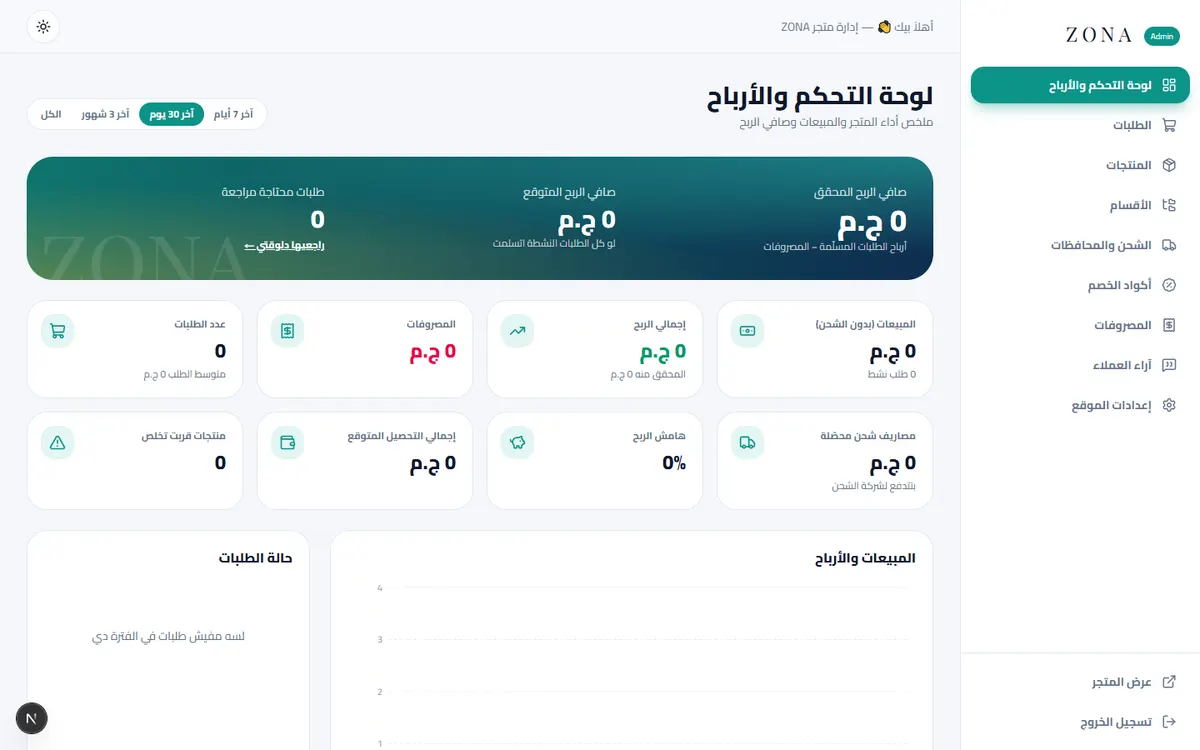
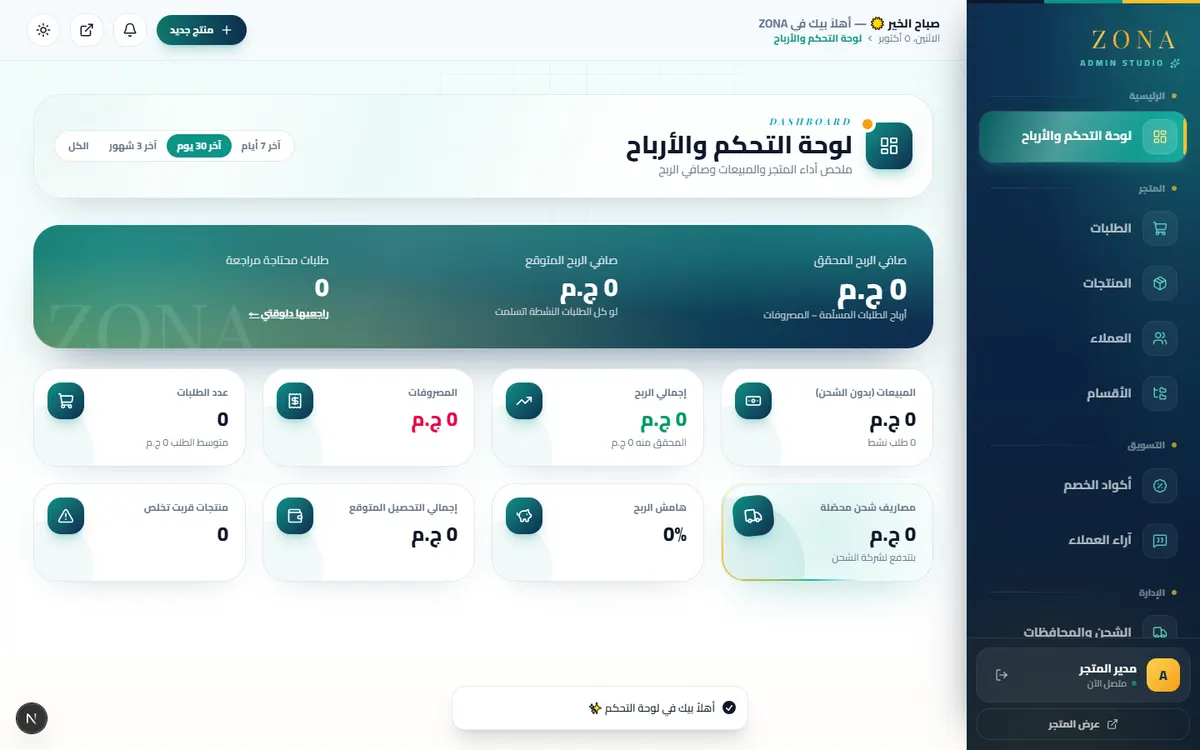
README: document everything + fresh screenshots and demo
- Covers customer accounts, Admin Studio redesign, customers page,
  gallery/table CRUD, social media, new footer and unified login
- New screenshots for store, footer, admin and dark mode; rebuilt
  animated demo

diff --git a/README.md b/README.md
@@ -4,7 +4,7 @@
 
 <p align="center">
   <a href="#">
-    <img src="https://readme-typing-svg.demolab.com?font=Cairo&weight=700&size=24&duration=2800&pause=700&color=0D9488&center=true&vCenter=true&width=680&lines=Satin+%E2%80%A2+Lace+%E2%80%A2+Bridal+%E2%80%A2+Comfort;Next.js+16+%2B+React+19+%2B+Tailwind+v4;Full+Admin+CRUD+%2B+Profit+Dashboard;Shipping+fees+for+27+Egyptian+governorates;Light+%2F+Dark+themes+with+smooth+animations" alt="Typing SVG" />
+    <img src="https://readme-typing-svg.demolab.com?font=Cairo&weight=700&size=24&duration=2800&pause=700&color=0D9488&center=true&vCenter=true&width=720&lines=Satin+%E2%80%A2+Lace+%E2%80%A2+Bridal+%E2%80%A2+Comfort;Next.js+16+%2B+React+19+%2B+Tailwind+v4;Customer+accounts+%2B+Admin+Studio;Full+CRUD+%2B+Profit+Dashboard;Shipping+fees+for+27+Egyptian+governorates;Light+%2F+Dark+themes+%2B+animations+everywhere" alt="Typing SVG" />
   </a>
 </p>
 
@@ -24,7 +24,7 @@
 
 ## ✨ عن المشروع
 
-**ZONA** متجر أونلاين فاخر للانجري والبيجامات الحريمي، مبني بـ **Next.js 16**، بواجهة عربية كاملة (RTL)، بألوان منصة منارة (تيل `#0d9488` • نيفي `#0e2c4e` • دهبي `#f59e0b`)، ووضع **لايت / دارك**، وأنيميشن في كل سكشن، ولوحة تحكم كاملة للأدمن فيها **CRUD على كل حاجة + حساب الأرباح**.
+**ZONA** متجر أونلاين فاخر للانجري والبيجامات الحريمي، مبني بـ **Next.js 16**، بواجهة عربية كاملة (RTL)، بألوان منصة منارة (تيل `#0d9488` • نيفي `#0e2c4e` • دهبي `#f59e0b`)، ووضع **لايت / دارك**، وأنيميشن وشيمر في كل سكشن وانت نازل، وحسابات للعملاء، و**Admin Studio** كامل فيه **CRUD على كل حاجة + حساب الأرباح**.
 
 <p align="center">
   <img src="https://capsule-render.vercel.app/api?type=rect&height=3&color=0:0f172a,50:0d9488,100:fbbf24" width="100%" />
@@ -35,27 +35,30 @@
 | | |
 |---|---|
 | 🎬 **هيرو متحرك** | صور بتتبدل تلقائي + Parallax + عنوان بيظهر كلمة كلمة |
-| 📢 **شريط إعلانات** | Ticker متحرك تحت الهيدر بأيقونات وكود خصم دهبي بيلمع ويقف مع الماوس |
+| 📢 **شريط إعلانات** | Ticker تحت الهيدر بأيقونات وكود خصم دهبي بيلمع ويقف مع الماوس |
 | 🗂 **الأقسام والمنتجات** | فلترة بالقسم واللون والسعر، بحث، ترتيب، زووم على الصور، ألوان ومقاسات |
-| 💍 **بانر العرايس** | Tilt ثلاثي الأبعاد مع الماوس، نجوم دهبي متحركة، نسخ كود الخصم بضغطة |
+| 💍 **بانر العرايس** | Tilt ثلاثي الأبعاد، نجوم دهبي متحركة، نسخ كود الخصم بضغطة |
+| ⭐ **ليه تختاري ZONA** | كروت بـ Spotlight يتبع الماوس وبرواز متدرج بيلف |
 | 🎥 **ZONA Reels** | فيديوهات المنتجات بتشتغل تلقائي |
-| 💬 **آراء العملاء** | صفين بيتحركوا عكس بعض بشكل لا نهائي + متوسط التقييم |
-| 🛒 **السلة** | درج جانبي + شريط "فاضلك كام على الشحن المجاني" |
-| 🚚 **الدفع والشحن** | سعر شحن لكل محافظة من الـ 27 + كوبونات + كاش / InstaPay / فودافون كاش |
+| 💬 **آراء العملاء** | صفين بيتحركوا عكس بعض بلا نهاية + متوسط التقييم |
+| 🛒 **السلة والدفع** | درج جانبي + شحن مجاني + سعر شحن لكل محافظة من الـ 27 + كوبونات + كاش / InstaPay / فودافون كاش |
+| 👤 **حسابات العملاء** | دخول بالموبايل أو الإيميل، "حسابي" بالطلبات والـ Timeline والعنوان وكلمة السر، تعبئة تلقائية في الدفع |
 | 📦 **تتبع الطلب** | برقم الطلب والموبايل مع Timeline متحرك |
-| 👤 **حسابات العملاء** | تسجيل دخول وحساب جديد (موبايل أو إيميل)، صفحة "حسابي" بالطلبات والعنوان، تعبئة تلقائية في الدفع |
+| 🌐 **الفوتر** | كروت زجاجية، أقسام بالصور، حالة "متاحين دلوقتي" بتوقيت القاهرة، سوشيال بألوان كل منصة، ZONA عملاقة بتطلع حرف حرف، زرار "لفوق" بدايرة تقدم |
 | 🌗 **لايت / دارك** | تبديل فوري مع رسالة تأكيد |
 
-## 🧑💼 لوحة التحكم
+## 🧑💼 Admin Studio
 
 | | |
 |---|---|
+| 🎨 **التصميم** | سايدبار نيفي بمجموعات، تحية حسب الوقت، جرس إشعارات بيرن، أرقام بتعدّ، وكل كارت بيظهر بأنيميشن وانت نازل |
 | 📊 **الأرباح** | صافي الربح المحقق والمتوقع، المبيعات، هامش الربح، رسم بياني، حالات الطلبات، الأكثر مبيعًا، المخزون القليل |
 | 🧾 **الطلبات** | تغيير الحالة (المخزون بيرجع تلقائي عند الإلغاء)، ربح كل طلب، طباعة فاتورة، واتساب للعميلة |
-| 👥 **العملاء** | كل الحسابات، عدد الطلبات وإجمالي المشتريات، واتساب مباشر |
-| 👗 **المنتجات** | رفع صور (تتحول WebP تلقائي) وترتيبها بالسحب، ألوان، مقاسات، تكلفة وسعر وربح القطعة، نسخ منتج |
-| 🗂 **الأقسام • الشحن • الكوبونات • المصروفات • الآراء** | CRUD كامل لكل واحدة |
-| ⚙ **الإعدادات** | نصوص الهيرو وصوره، شريط الإعلانات، أرقام التواصل، السوشيال، الشحن المجاني، طرق الدفع، الفيديوهات |
+| 👗 **المنتجات** | رفع صور (WebP تلقائي) وترتيبها بالسحب، ألوان، مقاسات، تكلفة وربح القطعة، نسخ منتج |
+| 👥 **العملاء** | منصة أفضل 3 عميلات، شارات VIP / مميزة، مشاركة لينك التسجيل على واتساب |
+| 🗂 **الأقسام • الشحن • الكوبونات • المصروفات • الآراء** | CRUD كامل + عرض كروت أو جدول + فلتر ظاهر / مخفي + إظهار وإخفاء بضغطة |
+| 📱 **السوشيال ميديا** | Instagram • Facebook • TikTok • Snapchat • YouTube • X • Telegram — تتحط من الإعدادات وتظهر في الفوتر تلقائي |
+| ⚙ **الإعدادات** | نصوص الهيرو وصوره، شريط الإعلانات، أرقام التواصل، الشحن المجاني، طرق الدفع، الفيديوهات |
 
 ## 📸 لقطات من الموقع
 
@@ -69,16 +72,16 @@
     <td align="center"><b>بانر العرايس</b><br/><img src="docs/screenshots/bridal.webp" /></td>
   </tr>
   <tr>
-    <td align="center"><b>آراء العملاء</b><br/><img src="docs/screenshots/reviews.webp" /></td>
     <td align="center"><b>ليه تختاري ZONA</b><br/><img src="docs/screenshots/features.webp" /></td>
+    <td align="center"><b>آراء العملاء</b><br/><img src="docs/screenshots/reviews.webp" /></td>
   </tr>
   <tr>
     <td align="center"><b>صفحة المنتج</b><br/><img src="docs/screenshots/product.webp" /></td>
     <td align="center"><b>كل المنتجات</b><br/><img src="docs/screenshots/shop.webp" /></td>
   </tr>
   <tr>
-    <td align="center"><b>تتبع الطلب</b><br/><img src="docs/screenshots/track.webp" /></td>
     <td align="center"><b>الفوتر</b><br/><img src="docs/screenshots/footer.webp" /></td>
+    <td align="center"><b>تتبع الطلب</b><br/><img src="docs/screenshots/track.webp" /></td>
   </tr>
   <tr>
     <td align="center"><b>حساب جديد</b><br/><img src="docs/screenshots/register.webp" /></td>
@@ -87,6 +90,14 @@
   <tr>
     <td align="center"><b>لوحة الأرباح</b><br/><img src="docs/screenshots/admin-dashboard.webp" /></td>
     <td align="center"><b>إدارة المنتجات</b><br/><img src="docs/screenshots/admin-products.webp" /></td>
+  </tr>
+  <tr>
+    <td align="center"><b>الأقسام (عرض كروت)</b><br/><img src="docs/screenshots/admin-categories.webp" /></td>
+    <td align="center"><b>العملاء</b><br/><img src="docs/screenshots/admin-customers.webp" /></td>
+  </tr>
+  <tr>
+    <td align="center"><b>السوشيال ميديا</b><br/><img src="docs/screenshots/admin-social.webp" /></td>
+    <td align="center"><b>الوضع الليلي — المنتجات</b><br/><img src="docs/screenshots/products-dark.webp" /></td>
   </tr>
 </table>
 
@@ -104,10 +115,11 @@ npm run build && npm start   # production
 
 <div dir="rtl">
 
-### 🔐 لوحة التحكم
+### 🔐 الدخول
 
-- الرابط: `/admin`
-- اعمل ملف `.env.local` وحط فيه كلمة السر (**لازم تتغير قبل النشر**):
+- صفحة الدخول واحدة للكل: `/login` — بيانات الأدمن بتدخّل لوحة التحكم، وبيانات العميلة بتدخّل "حسابي".
+- لوحة التحكم: `/admin`
+- اعمل ملف `.env.local` وحط فيه بيانات الأدمن (**لازم تتغير قبل النشر**):
 
 </div>
 
@@ -121,7 +133,8 @@ ADMIN_SECRET=a-long-random-string
 
 ### 💾 البيانات
 
-- كل البيانات (منتجات، طلبات، شحن، كوبونات…) في `data/db.json` وبتتعمل تلقائيًا أول تشغيل ببيانات تجريبية.
+- كل البيانات (منتجات، طلبات، عملاء، شحن، كوبونات…) في `data/db.json` وبتتعمل تلقائيًا أول تشغيل ببيانات تجريبية.
+- كلمات سر العملاء متخزنة متشفرة (scrypt)، والجلسات بكوكيز موقّعة.
 - الصور المرفوعة من الأدمن في `data/uploads`.
 - امسح مجلد `data` عشان ترجع للبيانات الأصلية.
 - الاستضافة لازم تكون **سيرفر Node** (VPS / Railway / Render) عشان الملفات تتحفظ.
@@ -134,13 +147,14 @@ ADMIN_SECRET=a-long-random-string
 src/
 ├─ app/
 │  ├─ (store)/          # Home, shop, product, checkout, order, track, login, register, account
-│  ├─ admin/            # Login + panel (dashboard, orders, products, …)
+│  ├─ admin/            # Admin Studio (dashboard, orders, products, customers, …)
 │  ├─ api/              # Orders, coupons, customer auth, admin CRUD, upload
 │  └─ uploads/[file]/   # Serves admin-uploaded images
-├─ components/          # Header, ticker, cart, product cards, motion helpers
+├─ components/          # Header, ticker, cart, footer, product cards, motion helpers
 │  ├─ home/             # Hero, sections, showcase (bridal, features, reviews)
-│  └─ admin/            # Shell, CRUD page, dashboard, UI kit
-├─ lib/                 # JSON DB, auth (HMAC cookies + scrypt passwords), orders, seed
+│  ├─ auth/             # Login, register, account
+│  └─ admin/            # Shell, nav, CRUD page, dashboard, UI kit
+├─ lib/                 # JSON DB, auth (HMAC cookies + scrypt), orders, social, seed
 └─ proxy.ts             # Protects /admin/*
 ```
 
